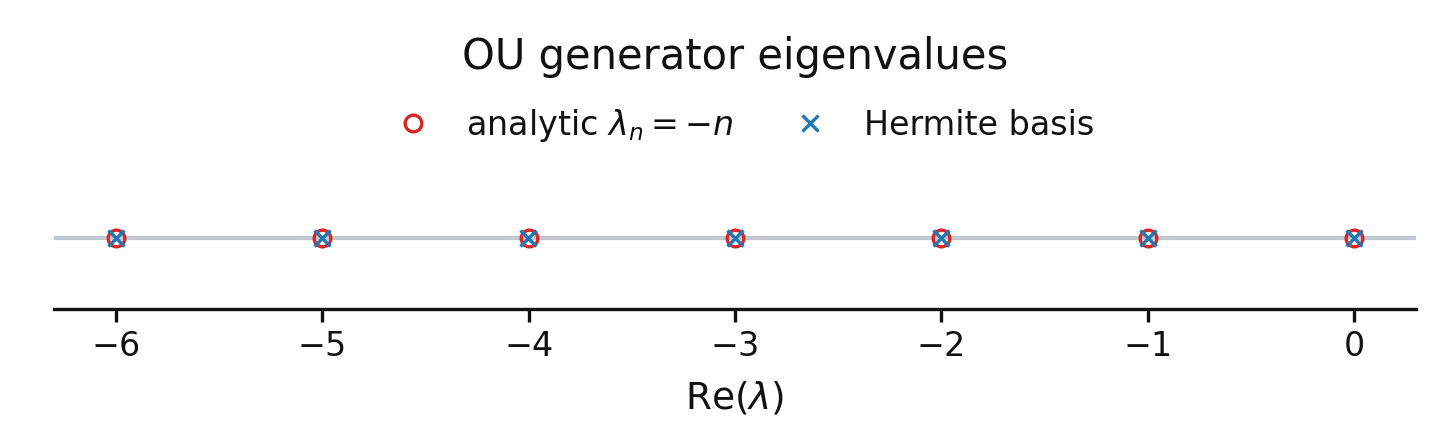
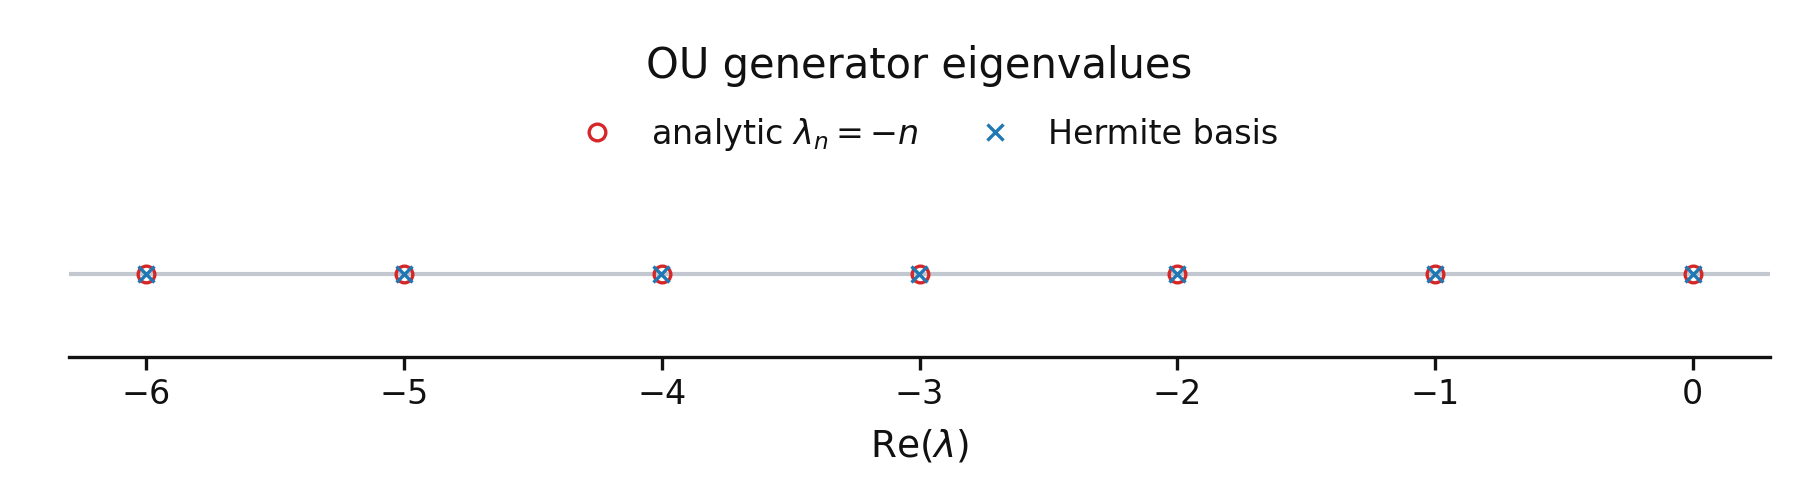
M

diff --git a/FIGURE_STYLE.md b/FIGURE_STYLE.md
@@ -108,11 +108,11 @@ Matplotlib's relative fractions.
 | `eeg/eeg_rollout_comparison` | 1x1 | 7.0x3.0 | 0.48 / 0.10 / 0.50 / 0.80 | 0 / 0 | title 0.05 in from top; legend 0.38 in from top, 5 columns |
 | `lorenz63/l63_prediction` | 1x3 | 7.0x3.0 | 0.50 / 0.10 / 0.46 / 0.86 | 0.30 / 0 | title 0.05 in from top; legend 0.35 in from top, 2 columns |
 | `lorenz96/l96_prediction` | 1x3 | 7.0x3.0 | 0.50 / 0.10 / 0.46 / 0.86 | 0.30 / 0 | title 0.05 in from top; legend 0.35 in from top, 2 columns |
-| `ou/*_eigenvalues` | 1x1 real-axis strip | 4.8x1.45 | 0.18 / 0.08 / 0.42 / 0.30 | 0 / 0 | in-axis legend, 2 columns; y axis hidden explicitly |
+| `ou/*_eigenvalues` | 1x1 real-axis strip | 6.0x1.65 | 0.23 / 0.10 / 0.46 / 0.33 | 0 / 0 | in-axis legend, 2 columns; y axis hidden explicitly |
 | `ou/*_eigenfunctions` | 2x3 | 7.0x4.6 | 0.48 / 0.10 / 0.60 / 0.42 | 0.34 / 0.46 | title 0.05 in from top; legend 0.05 in from bottom, 2 columns |
 | `sst/sst_forecast_skill` | 2x2 | 7.0x5.25 | 0.55 / 0.10 / 0.48 / 0.90 | 0.62 / 0.62 | title 0.05 in from top; legend 0.34 in from top, 3 columns |
 | `sst/sst_rollout_stability` | 1x2 | 7.0x3.0 | 0.53 / 0.10 / 0.48 / 0.82 | 0.54 / 0 | title 0.05 in from top; legend 0.36 in from top, 3 columns |
-| `triple_well/tw_eigenvalues` | 1x1 real-axis strip | 4.8x1.45 | 0.18 / 0.08 / 0.42 / 0.30 | 0 / 0 | in-axis legend, 2 columns; y axis hidden explicitly |
+| `triple_well/tw_eigenvalues` | 1x1 real-axis strip | 6.0x1.65 | 0.23 / 0.10 / 0.46 / 0.33 | 0 / 0 | in-axis legend, 2 columns; y axis hidden explicitly |
 | `triple_well/tw_eigenfunctions` | 1x3 | 7.0x2.2 | 0.55 / 0.32 / 0.43 / 0.48 | 0.65 / 0 | title 0.05 in from top; colorbar size 4.5%, pad 0.04 in |
 
 The older two-panel OU evaluation function uses 7.0x3.0 in, margins
